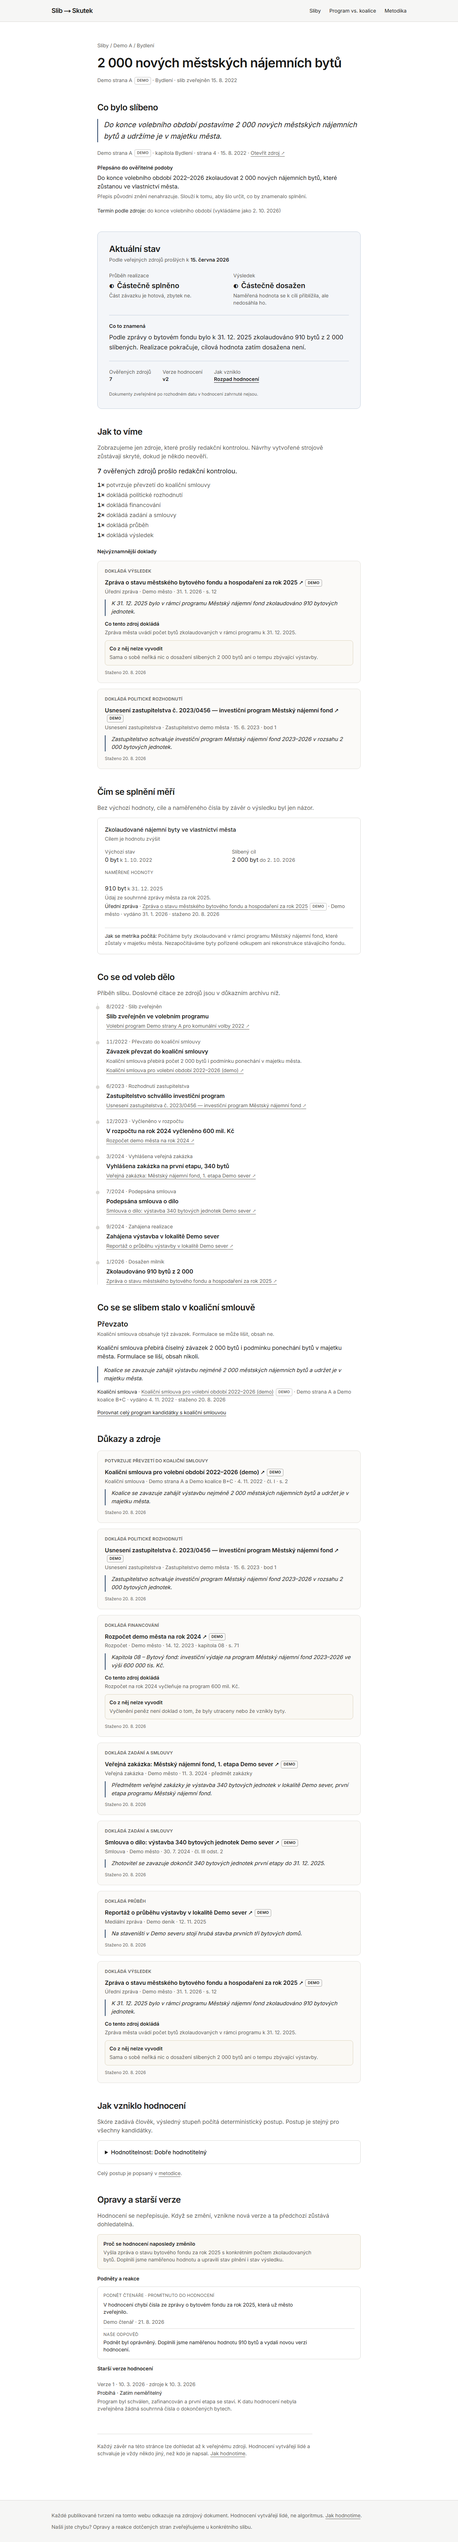
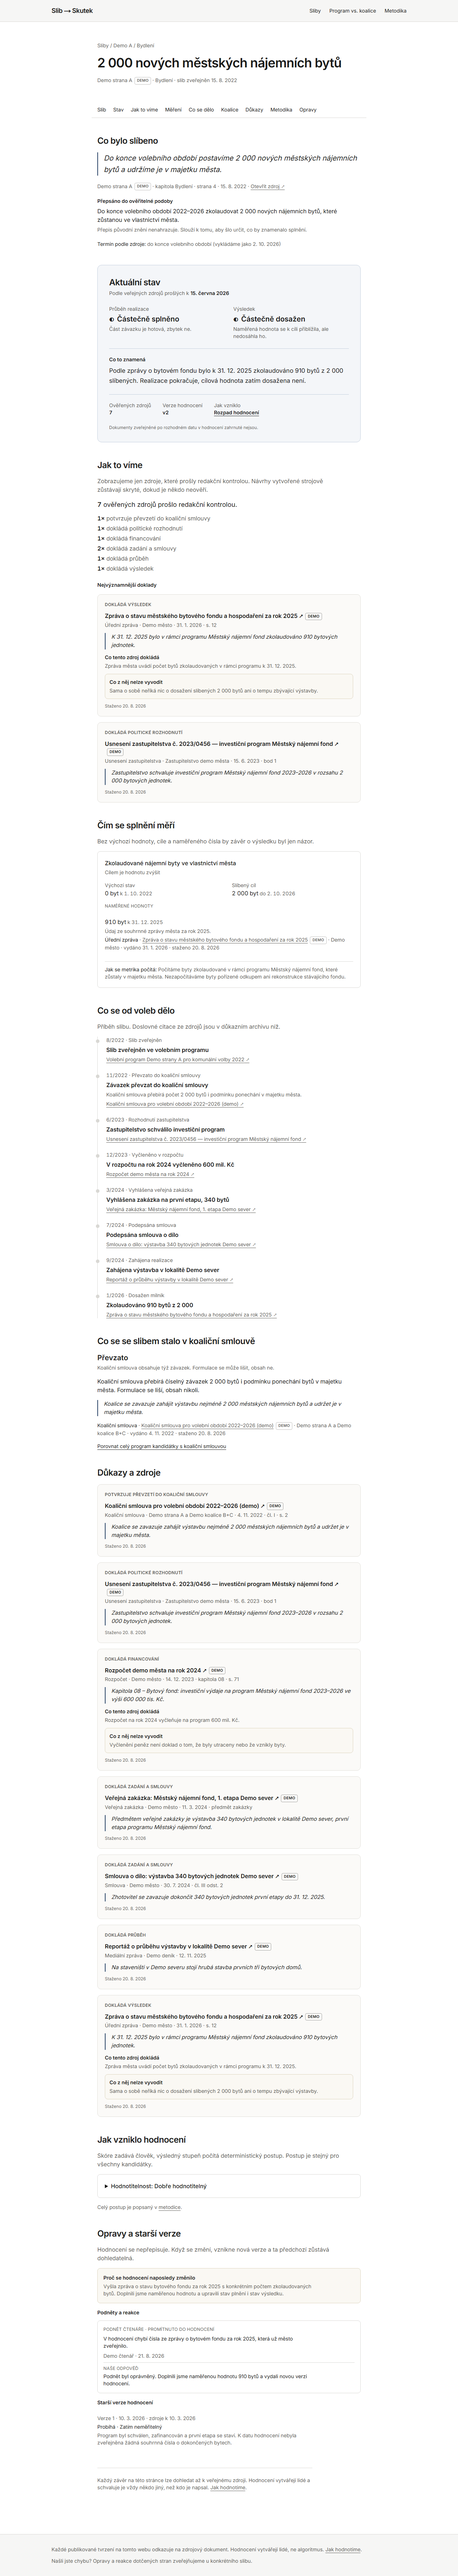
Redesign Krok 3: mobilni detail slibu
Obsah se na uzke obrazovce lamal dobre uz predtim -- typografie, zalomeni
ani prekryvy nebyly problem. Problem byla delka: detail ma na mobilu pres
devet tisic pixelu, tedy zhruba jedenact obrazovek, a ctenar nemel zadnou
mapu ani cestu zpatky k odpovedi, kdyz se zavrtal do dukazniho archivu.

Pridava se proto lepici lista se sekcemi. Jsou to obycejne kotvy, takze
funguji bez JavaScriptu i po odeslani odkazu. Zvyraznovani prave ctene
sekce v ni vedome neni: vyzadovalo by pozorovatel v prohlizeci a u ruzne
vysokych sekci plete vic, nez pomaha -- hodnota listy je skok, ne poloha.

Vedlejsi efekt je, ze odpoved je z prvni obrazovky na jedno klepnuti,
aniz by se muselo prehazovat poradi sekci. Slib zustava pred verdiktem.

Kotvy resi scroll-margin-top plosnym pravidlem v globals.css, ne tridou
u kazdeho nadpisu -- na tu by se u pristi sekce zapomnelo.

Podminky pro vykresleni sekci jsou nove pojmenovane promenne, aby lista
nikdy neodkazovala na sekci, ktera na strance neni.

Claude-Session: https://claude.ai/code/session_01M5WN7eDo1aQcQFm4u61VPZ

Changed region(s): [[0.2188, 0.0312, 0.75, 0.9657]]

diff --git a/src/app/(public)/promises/[slug]/page.tsx b/src/app/(public)/promises/[slug]/page.tsx
@@ -11,6 +11,7 @@ import { EvidenceBlock } from "@/app/(public)/promises/_components/EvidenceBlock
 import { EvidenceSummary } from "@/app/(public)/promises/_components/EvidenceSummary";
 import { MetricPanel } from "@/app/(public)/promises/_components/MetricPanel";
 import { OriginalPromise } from "@/app/(public)/promises/_components/OriginalPromise";
+import { SectionNav, type SectionLink } from "@/app/(public)/promises/_components/SectionNav";
 import { Timeline } from "@/app/(public)/promises/_components/Timeline";
 import { db } from "@/db/client";
 import {
@@ -67,6 +68,32 @@ export default async function PromiseDetailPage({ params }: PageProps<"/promises
   const assessment = promise.assessment;
   const isNonAssessable = assessment?.assessability === "NOT_ASSESSABLE";
 
+  // Podmínky sdílené s vykreslením níž, aby lišta nikdy neodkazovala na sekci,
+  // která na stránce není. Pojmenované proměnné jsou tu jediná pojistka proti
+  // rozejití — pro sedm sekcí je to spolehlivější než další vrstva abstrakce.
+  const hasEvidenceSummary = !isNonAssessable;
+  const hasMetrics = promise.metrics.length > 0;
+  const hasEvidence = promise.evidence.length > 0;
+  const hasHistory = promise.corrections.length > 0 || promise.assessmentHistory.length > 0;
+
+  const sections: SectionLink[] = [
+    { id: "co-bylo-slibeno", label: "Slib" },
+    ...(assessment
+      ? [
+          isNonAssessable
+            ? { id: "nehodnotitelny", label: "Stav" }
+            : { id: "aktualni-stav", label: "Stav" },
+        ]
+      : []),
+    ...(hasEvidenceSummary ? [{ id: "jak-to-vime", label: "Jak to víme" }] : []),
+    ...(hasMetrics ? [{ id: "cim-se-meri", label: "Měření" }] : []),
+    { id: "co-se-delo", label: "Co se dělo" },
+    ...(promise.coalition ? [{ id: "koalice", label: "Koalice" }] : []),
+    ...(hasEvidence ? [{ id: "dukazy", label: "Důkazy" }] : []),
+    ...(assessment ? [{ id: METHODOLOGY_SECTION, label: "Metodika" }] : []),
+    ...(hasHistory ? [{ id: "historie", label: "Opravy" }] : []),
+  ];
+
   return (
     <article className="mx-auto max-w-3xl space-y-12 px-4 py-10 sm:py-14">
       <header className="space-y-4">
@@ -105,6 +132,8 @@ export default async function PromiseDetailPage({ params }: PageProps<"/promises
         </p>
       </header>
 
+      <SectionNav sections={sections} />
+
       <Section id="co-bylo-slibeno" title="Co bylo slíbeno">
         <OriginalPromise
           originalText={promise.originalText}
@@ -127,7 +156,7 @@ export default async function PromiseDetailPage({ params }: PageProps<"/promises
         )
       ) : null}
 
-      {!isNonAssessable ? (
+      {hasEvidenceSummary ? (
         <Section
           id="jak-to-vime"
           title="Jak to víme"
@@ -137,7 +166,7 @@ export default async function PromiseDetailPage({ params }: PageProps<"/promises
         </Section>
       ) : null}
 
-      {promise.metrics.length > 0 ? (
+      {hasMetrics ? (
         <Section
           id="cim-se-meri"
           title="Čím se splnění měří"
@@ -161,7 +190,7 @@ export default async function PromiseDetailPage({ params }: PageProps<"/promises
 
       {promise.coalition ? <CoalitionSection promise={promise} /> : null}
 
-      {promise.evidence.length > 0 ? (
+      {hasEvidence ? (
         <Section id="dukazy" title="Důkazy a zdroje">
           <div className="space-y-4">
             {promise.evidence.map((item, index) => (
@@ -196,7 +225,7 @@ export default async function PromiseDetailPage({ params }: PageProps<"/promises
         </Section>
       ) : null}
 
-      {promise.corrections.length > 0 || promise.assessmentHistory.length > 0 ? (
+      {hasHistory ? (
         <Section
           id="historie"
           title="Opravy a starší verze"

diff --git a/e2e/public-explorer.e2e.ts b/e2e/public-explorer.e2e.ts
@@ -126,6 +126,43 @@ test.describe("veřejná část", () => {
 });
 
 /**
+ * Mapa dlouhé stránky.
+ *
+ * Detail slibu má na mobilu přes jedenáct obrazovek. Lišta je jediné, co
+ * čtenáři dovolí se v tom pohybovat, takže se testuje i to, že kotva
+ * neskončí schovaná pod lištou samotnou.
+ */
+test.describe("navigace po detailu slibu", () => {
+  test("lišta odkazuje na sekce a kotva neskončí pod ní", async ({ page }) => {
+    await page.goto("/promises/demo-a-2000-mestskych-najemnich-bytu");
+
+    const listaSekci = page.getByRole("navigation", { name: "Části stránky" });
+    await expect(listaSekci).toBeVisible();
+
+    await listaSekci.getByRole("link", { name: "Stav" }).click();
+    await expect(page).toHaveURL(/#aktualni-stav$/);
+
+    const nadpis = page.getByRole("heading", { level: 2, name: "Aktuální stav" });
+    await expect(nadpis).toBeInViewport();
+
+    const nadpisBox = await nadpis.boundingBox();
+    const listaBox = await listaSekci.boundingBox();
+    expect(nadpisBox).not.toBeNull();
+    expect(listaBox).not.toBeNull();
+    expect(nadpisBox!.y).toBeGreaterThanOrEqual(listaBox!.y + listaBox!.height);
+  });
+
+  test("lišta nenabízí sekci, která na stránce není", async ({ page }) => {
+    // Nehodnotitelný slib nemá ani metriky, ani „Jak to víme".
+    await page.goto("/promises/demo-a-snizeni-dph-na-stavebni-prace");
+
+    const listaSekci = page.getByRole("navigation", { name: "Části stránky" });
+    await expect(listaSekci.getByRole("link", { name: "Jak to víme" })).toHaveCount(0);
+    await expect(listaSekci.getByRole("link", { name: "Stav" })).toBeVisible();
+  });
+});
+
+/**
  * Zásuvka s filtry na mobilu.
  *
  * Vlastní implementace bez knihovny, takže se od ní očekává, že se otestuje

diff --git a/src/app/(public)/promises/_components/SectionNav.tsx b/src/app/(public)/promises/_components/SectionNav.tsx
@@ -1,0 +1,46 @@
+import Link from "next/link";
+
+/**
+ * Mapa dlouhé stránky.
+ *
+ * Detail slibu má na mobilu přes devět tisíc pixelů — jedenáct obrazovek.
+ * Obsah sám se láme dobře, ale bez mapy čtenář neví, co ho ještě čeká, a
+ * hlavně se nedostane zpátky k odpovědi, když se zavrtá do archivu.
+ *
+ * Nejsou to odkazy na jinou stránku, ale kotvy: navigace se proto drží
+ * nahoře i při scrollování. Jde o obyčejné `<a href="#…">`, takže funguje
+ * bez JavaScriptu i po odeslání odkazu někomu dalšímu.
+ *
+ * Vědomě tu **není** zvýrazňování právě čtené sekce. Vyžadovalo by pozorovatel
+ * v prohlížeči a u stránky, kde jsou sekce různě vysoké, se plete víc, než
+ * pomáhá. Hodnota téhle lišty je skok, ne poloha.
+ */
+export interface SectionLink {
+  id: string;
+  label: string;
+}
+
+export function SectionNav({ sections }: { sections: SectionLink[] }) {
+  // Pod dvě sekce je lišta jen šum — skákat není kam.
+  if (sections.length < 3) return null;
+
+  return (
+    <nav
+      aria-label="Části stránky"
+      className="border-border bg-background sticky top-0 z-30 -mx-4 border-b px-4"
+    >
+      <ul className="flex scrollbar-none gap-x-5 overflow-x-auto py-3 text-sm whitespace-nowrap">
+        {sections.map((section) => (
+          <li key={section.id}>
+            <Link
+              href={`#${section.id}`}
+              className="hover:text-accent underline-offset-4 hover:underline"
+            >
+              {section.label}
+            </Link>
+          </li>
+        ))}
+      </ul>
+    </nav>
+  );
+}

diff --git a/src/app/globals.css b/src/app/globals.css
@@ -133,6 +133,26 @@ body {
   max-width: 68ch;
 }
 
+/**
+ * Kotva nesmí skončit pod lepící navigací.
+ *
+ * Řeší se to plošně, ne u každého nadpisu zvlášť: každý cíl odkazu na téže
+ * stránce je nadpis nebo sekce s `id`, takže jedno pravidlo je spolehlivější
+ * než třída, na kterou se u příští sekce zapomene.
+ */
+:where(h1, h2, h3, section)[id] {
+  scroll-margin-top: 4.5rem;
+}
+
+/* Lišta se posouvá prstem nebo fokusem; pruh scrollbaru by z ní ukrajoval. */
+.scrollbar-none {
+  scrollbar-width: none;
+}
+
+.scrollbar-none::-webkit-scrollbar {
+  display: none;
+}
+
 @media (prefers-reduced-motion: reduce) {
   *,
   *::before,

diff --git a/e2e/accessibility.e2e.ts b/e2e/accessibility.e2e.ts
@@ -105,6 +105,10 @@ test.describe("přístupnost na mobilu", () => {
     await expectAccessible(page, "/promises");
   });
 
+  test("detail slibu na úzké obrazovce", async ({ page }) => {
+    await expectAccessible(page, `/promises/${PUBLISHED_SLUG}`);
+  });
+
   test("otevřená zásuvka s filtry je dialog, ne jen odsunutý obsah", async ({ page }) => {
     await page.goto("/promises");
     await page.getByRole("button", { name: /Filtry a hledání/ }).click();

diff --git a/docs/design/after-p0/README.md b/docs/design/after-p0/README.md
@@ -3,5 +3,7 @@
 Snímky pro srovnání se stavem v `../before-redesign/`. Vznikly po přestavbě
 Promise Detailu — nový status systém, Evidence Block a answer-first hierarchie.
 
-Zbytek produktu (Explorer, homepage, compare, admin) zatím vypadá jako předtím;
-propaguje se do něj až po schválení tohohle jazyka.
+Snímky detailu jsou obnovené po doplnění lišty se sekcemi (Krok 3).
+Explorer je v `../after-explorer/`, mobilní detail v `../after-mobile/`.
+
+Do homepage, `/compare` a redakční konzole se nový jazyk zatím nepropsal.

diff --git a/docs/design/after-mobile/README.md b/docs/design/after-mobile/README.md
@@ -1,0 +1,9 @@
+# Mobilní detail slibu (Krok 3)
+
+- `detail-prvni-obrazovka.png` — první obrazovka: nadpis, provenience a mapa sekcí
+- `22-mobil-detail.png` — celá stránka na 390 px
+
+Obsah se na úzké obrazovce lámal dobře už předtím; problém byla délka.
+Stránka má přes devět tisíc pixelů, tedy zhruba jedenáct obrazovek, a bez mapy
+se v ní nedalo pohybovat. Lišta se sekcemi je proto lepicí a odpověď
+(„Stav") je z první obrazovky na jedno klepnutí.

diff --git a/docs/design/after-explorer/README.md b/docs/design/after-explorer/README.md
@@ -1,0 +1,8 @@
+# Explorer po přestavbě (Krok 4)
+
+- `02-sliby.png` — přehled se zjednodušenou kartou slibu
+- `03-sliby-filtr.png` — zapnutý filtr je vidět nad výsledky a ruší se odtud
+- `21-mobil-sliby.png` — mobil se zavřenou zásuvkou filtrů
+
+Karta uvádí hodnotitelnost jen tehdy, když je nízká, a místo poslední události
+nese rozhodné datum — údaj o tom, jak starý závěr čtenář čte.
